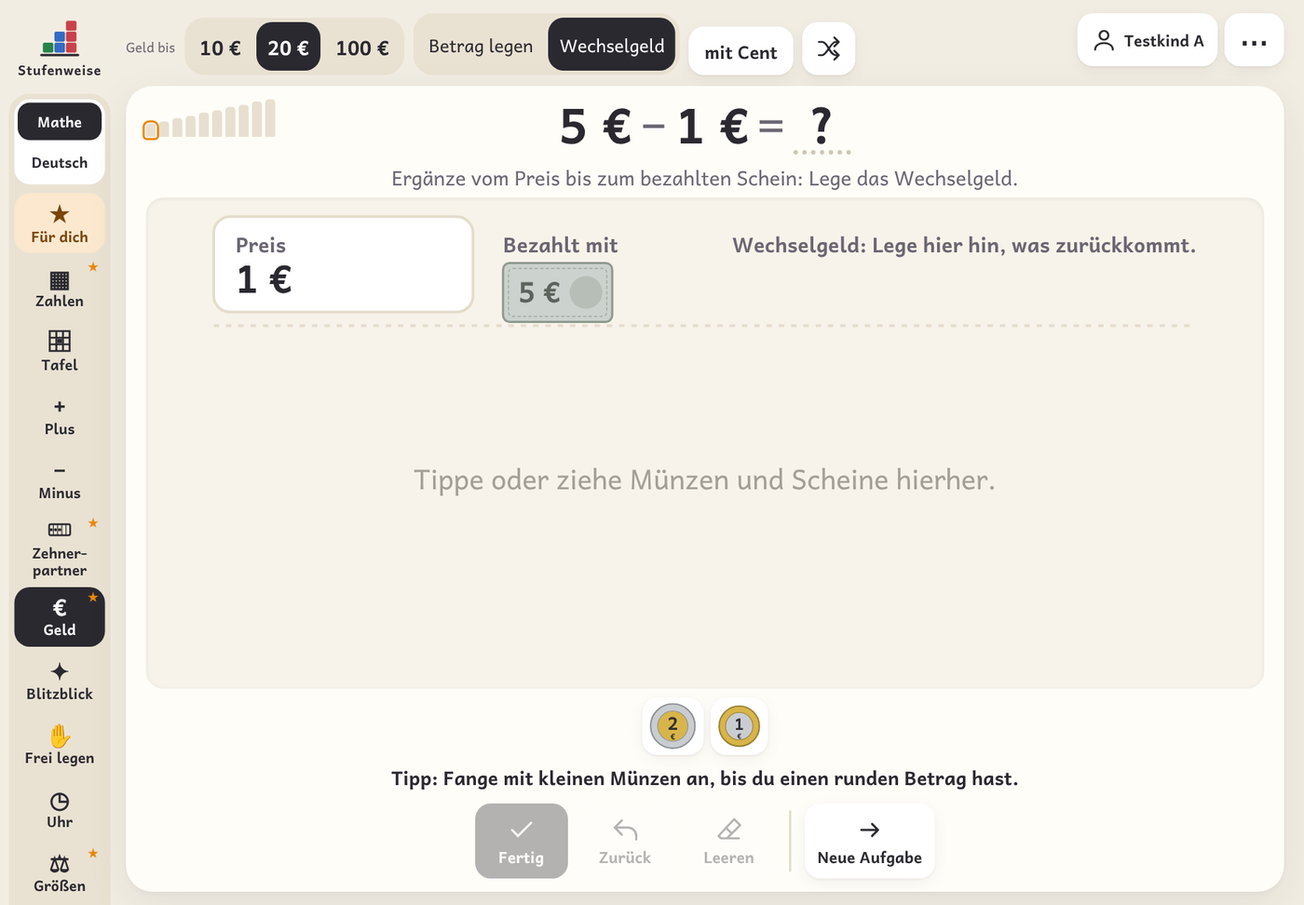
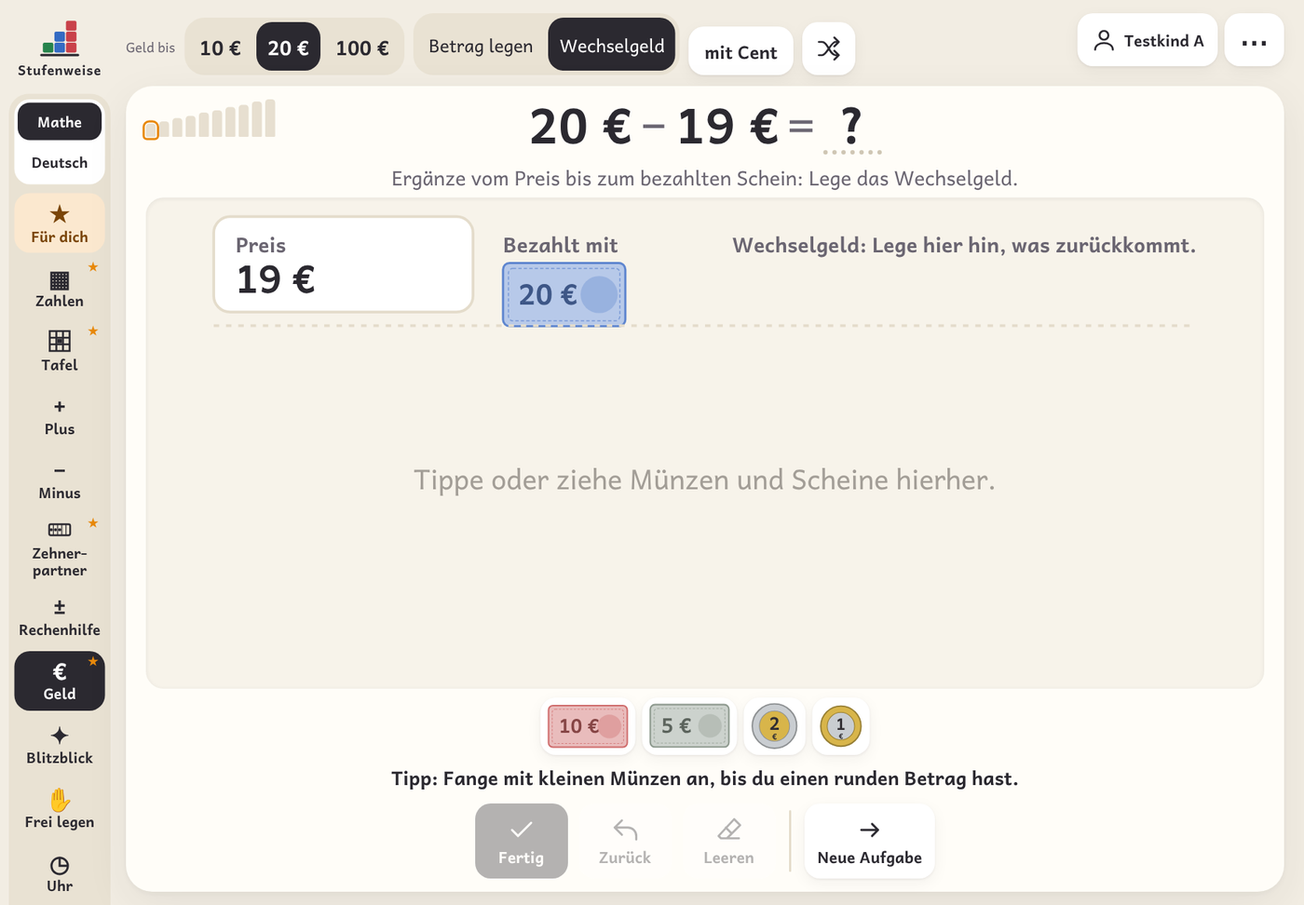
Testversion aus entwicklung (8ca3ece = 0.29.0)
Claude-Session: https://claude.ai/code/session_01EfzymwKeJDe7hEGcDraK42

diff --git a/index.html b/index.html
@@ -3529,6 +3529,7 @@ function adaptStep(mode, dir){
 }
 function adaptTrack(e){
   const k = adaptKey(e); if(!k) return;
+  if(app.calc && ['add', 'sub'].includes(e.mode)) return; /* Rechenhilfe: eigene Aufgaben, kein Vorschlag „Schwerer/Leichter“ */
   if(['add', 'sub'].includes(e.mode) && !app.calc && e.mode === app.mode && pmTrack(e)) return;
   const A = app.adapt; if(A.key !== k){ Object.assign(A, {key:k, ok:0, miss:0}); }
   if(e.ok){ A.ok++; A.miss = 0; } else { A.miss++; A.ok = 0; }
@@ -7125,7 +7126,7 @@ function wzGo(ds){
   settings.subject = subj; app.railGrp = null; leaveMode(); app.activeZone = null;
   if(ds.wzLvl){
     if(ds.wzLast){ settings.lastMath = ds.wzLast; ({clock:() => app.read.ulvl = ds.wzLvl, size:() => app.read.glvl = ds.wzLvl, board:() => app.read.hlvl = ds.wzLvl, tenpair:() => app.read.zlvl = ds.wzLvl})[ds.wzLast]?.(); }
-    Object.assign(app.read, {lvl: ds.wzLvl, item:null, streak:0, miss:0}); app.mode = 'read';
+    Object.assign(app.read, {lvl: ds.wzLvl, item:null, streak:0, miss:0}); pmSetCalc(false); app.mode = 'read';
   } else { pmSetCalc(!!ds.wzCalc); app.mode = ds.wzMode; settings.lastMath = app.mode; autoConf(app.mode); }
   saveSettings(); app.wz = null; render();
 }
@@ -9590,7 +9591,7 @@ document.addEventListener('change', e => { const c = e.target.closest('[data-sub
 document.addEventListener('change', e => { const s = e.target.closest('[data-guide-pid]'); if(!s) return; const p = data.profiles.find(x => x.id === s.dataset.guidePid); if(p){ p.guide = s.value || undefined; saveData(); render(); } });
 
 /* ---------- Rückmeldung (Testphase): Art, Schwere, Text + automatischer Kontext → E-Mail ---------- */
-const APP_VERSION = '0.29.0 · Testversion 0a22d91 · 19.11.2026';
+const APP_VERSION = '0.30.0 · Testversion 8ca3ece · 20.11.2026';
 /* Danke-Seite: Namen nur mit Einverständnis eintragen, z. B. 'Vorname Nachname (Schule)' */
 const THANKS = [];
 const FB_REPO = 'https://github.com/Steffinuss/stufenweise';
@@ -9730,7 +9731,6 @@ $('#dlg-profile').addEventListener('click', e => {
   if(del){ const id = del.dataset.del, p = data.profiles.find(x => x.id === id); if(p && del.dataset.sure){ data.profiles = data.profiles.filter(x => x.id !== id); delete data.log[id]; if(data.skips) delete data.skips[id]; if(data.errs) delete data.errs[id]; if(data.current === id) data.current = null; saveData(); renderProfiles(); render(); } else { del.dataset.sure = '1'; del.innerHTML = '<span style="display:inline;font-weight:700;color:var(--bad)">Sicher?</span>'; } return; }
   if(e.target.closest('#p-screen')){ $('#dlg-profile').close(); screenStart(); }
   if(e.target.closest('#p-unlock')){ requireTeacher(() => renderProfiles()); return; }
-  const tb = e.target.closest('[data-ptest]'); if(tb){ requireTeacher(() => { $('#dlg-profile').close(); diagStart(tb.dataset.ptest, false); }); return; }
 });
 $('#dlg-profile').addEventListener('submit', e => {
   e.preventDefault(); if(!teacherOn()) return; const n = $('#pname').value.trim(); if(!n) return;
@@ -9781,14 +9781,14 @@ $('#help-content').innerHTML = [
   ['chart','Die Stufen','Mathe: Zahlenräume 10, 20, 100, 1000 mit den Niveaus I–V (Fritz & Ricken, Krajewski), Stellenwert S1–S4 (Herzog, Ehlert & Fritz) Rechnen R1–R7 (Plus und Minus bis 10, 20, 100, 1000, Einmaleins), Zehnerpartner Z1–Z3 (Zahlen, die zusammen 10 ergeben, und Rechnen über die 10), Zeit U1–U6 (Uhr und Kalender) und Hundertertafel H1–H7 (bis zum Tausenderbuch). Der Mathe-Test hat zwei Teile: Teil 1 Zahlen und Rechnen, Teil 2 Uhr, Größen und Hundertertafel – so bleibt jede Sitzung kurz. Deutsch: Lesen L1–L9 und Schreiben W1–W6 nach dem Bildungsplan GENT. Dazu Größen G1–G4 (Messen, cm/m/km, g/kg, Einkaufen). Jede Stufe hat einen „Ich kann“-Satz in einfacher Sprache.'],
   ['h','Für Schüler*innen'],
   ['home','Startseite','Das Stufen-Zeichen links oben führt zur Startseite. Dort tippst du deinen Namen an. Unter „Heute für dich“ stehen deine Übungen. Die „Startrunde“ sind 3 kurze Aufgaben zum Aufwärmen. „Meine Lernlandkarte“ zeigt, was du schon kannst (✓) und woran du gerade arbeitest (★).'],
-  ['edit','Mathe','Links wählst du: Zahlen legen, Hundertertafel, Plus, Minus, Zehnerpartner, Schriftlich, Einmaleins, Geld, Blitzblick, Frei legen, Uhr und Größen. Nach deinem Test stellt sich jede Übung selbst passend ein (Zahlenraum, Zehnerübergang). Beim Blitzblick wird die Zeit kürzer, wenn es gut klappt, und länger, wenn es schwer ist. Material kannst du antippen oder ziehen. Bei einem Fehler bekommst du einen Tipp, zum Beispiel: „Zehner und Einer sind vertauscht.“'],
+  ['edit','Mathe','Links wählst du: Zahlen legen, Hundertertafel, Plus, Minus, Zehnerpartner, Rechenhilfe, Schriftlich, Einmaleins, Geld, Blitzblick, Frei legen, Uhr und Größen. Nach deinem Test stellt sich jede Übung selbst passend ein (Zahlenraum, Zehnerübergang). Bei Plus und Minus gibt es Zufallsaufgaben; die Darstellung kommt von selbst nacheinander (Material → Zwanzigerfeld oder Hundertertafel → Zahlenstrahl, nach 8 richtigen Aufgaben die nächste). In der Rechenhilfe gibt das Kind eine eigene Aufgabe ein und wählt die Darstellung frei. Beim Blitzblick wird die Zeit kürzer, wenn es gut klappt, und länger, wenn es schwer ist. Material kannst du antippen oder ziehen. Bei einem Fehler bekommst du einen Tipp, zum Beispiel: „Zehner und Einer sind vertauscht.“'],
   ['target','Zahlenstrahl vergrößern','Tippe auf einen Sprung (zum Beispiel +7), dann wird er groß. Noch einmal tippen: zurück. Mit + und − vergrößerst und verkleinerst du. Mit zwei Fingern kannst du auch zoomen und mit einem Finger verschieben. Unten zeigt der kleine Zahlenstrahl, wo du gerade bist – tippe dort, um hinzuspringen.'],
   ['line','Deutsch','Lesen in 9 Stufen (Bilder, Signalwörter, Buchstaben, Wörter, genau lesen, Sätze, kurze Texte, Pläne und Tabellen, lange Texte) und Schreiben in 6 Stufen (abschreiben, Anlaute, kurze und lange Wörter, Merkstellen, Sätze). Unter „Meine Wörter“ übst du Wörter, die deine Lehrkraft eingetragen hat: anschauen, merken, abdecken, auswendig schreiben, vergleichen. „Silben färben“ hilft bei langen Wörtern. Beim Schreiben gibt es Buchstaben auf dem Bildschirm.'],
-  ['blocks','Basis','Grundlagen vor dem Zählen und Lesen: Gleiches finden, Was passt nicht?, Sortieren, Eins zu eins zuordnen, Mengen vergleichen, Der Größe nach, Muster, Auf einen Blick, Formen, Richtung und Spiegelung, Von links nach rechts. Oben hellblau steht die Vorgabe oder das Ziel, unten beige der Vorrat: Die Kinder schieben Dinge an ihren Platz (oder tippen das Ding und dann den Platz an). Jede Aufgabenart wird zuerst vorgemacht (orange Rahmen, „Schau zu“, eine Hand zeigt es); das Kind bleibt bei ihr, bis es sie sicher kann (erst wenige, dann mehr Bilder). Die Lehrkraft erklärt den Auftrag. Kinder sehen „Basis“ nur, wenn es in den Einstellungen unter „Kinder &amp; Daten“ für sie eingeschaltet ist. Dazu gibt es Arbeitsblätter und Legeblätter.'],
+  ['blocks','Basis','Grundlagen vor dem Zählen und Lesen: Gleiches finden, Was passt nicht?, Sortieren, Eins zu eins zuordnen, Mengen vergleichen, Der Größe nach, Muster, Auf einen Blick, Formen, Richtung und Spiegelung, Von links nach rechts. Oben hellblau steht die Vorgabe oder das Ziel, unten beige der Vorrat: Die Kinder schieben Dinge an ihren Platz (oder tippen das Ding und dann den Platz an). Jede Aufgabenart wird zuerst vorgemacht (orange Rahmen, „Schau zu“, eine Hand zeigt es); das Kind bleibt bei ihr, bis es sie sicher kann (erst wenige, dann mehr Bilder). Die Lehrkraft erklärt den Auftrag. Kinder sehen „Basis“ nur, wenn es für sie eingeschaltet ist (unter „Wer übt?“ oder in den Einstellungen unter „Kinder &amp; Daten“) oder der Basis-Test eine Förderzone ergeben hat. Manche Aufgabenarten werden zusätzlich feiner: erst deutlich verschiedene Dinge, dann ähnliche, dann sehr ähnliche. Dazu gibt es Arbeitsblätter und Legeblätter.'],
   ['next','Schwerer oder leichter','Wenn du 5 Aufgaben hintereinander richtig hast, schlägt Stufenweise die nächste Stufe vor. Nach 3 Fehlern gibt es eine leichtere Stufe. Du entscheidest selbst.'],
   ['h','Für die Lehrkraft'],
   ['lock','Lehrkraft-PIN','In den Einstellungen eine 4-stellige PIN festlegen. Dann sind Lernstand, Tests, Arbeitsblätter, Berichte, Einstellungen und das Anlegen von Kindern geschützt. Nach der Eingabe bleibt der Bereich 20 Minuten offen.'],
-  ['target','Tests','„Wer übt?“ → Mathe-, Lese- oder Schreib-Test. Die Tests sind adaptiv: gelöst → schwerer, nicht gelöst → leichter; in Mathe auch mit Sprüngen zwischen den Zahlenräumen. Meist 6–25 Aufgaben. Die Kinder sehen eine ermutigende Einleitung, während des Tests oben die Abschnitte und einen Balken, der nur vorwärts läuft (ohne richtig/falsch), und am Ende keine Ergebnisse. Während des Tests sind Leiste und Menü gesperrt; Beenden mit zweimal „Abbrechen“. Die Arbeitsaufträge sind kurz; Kinder, die sie noch nicht lesen können, brauchen beim ersten Mal eine kurze Erklärung.'],
+  ['target','Tests','Startseite → „Testen“ → Kind → Test (mit Lehrkraft-PIN). Dort steht je Fach, welche Teile schon gemacht sind; der Basis-Test erscheint, wenn Basis beim Kind eingeschaltet ist oder Mathe „Zahlen bis 10, Stufe I“ bzw. Lesen L1 noch nicht erreicht ist. Mathe-, Lese- und Schreib-Test sind adaptiv: gelöst → schwerer, nicht gelöst → leichter; in Mathe auch mit Sprüngen zwischen den Zahlenräumen. Meist 6–25 Aufgaben. Der Basis-Test hat drei kurze Teile; jede Aufgabenart wird zuerst vorgemacht, dann löst das Kind zwei bis drei Aufgaben, bei Erfolg noch die schwerere Form. Die Kinder sehen eine ermutigende Einleitung, während des Tests oben die Abschnitte und einen Balken, der nur vorwärts läuft (ohne richtig/falsch), und am Ende keine Ergebnisse. Während des Tests sind Leiste und Menü gesperrt; Beenden mit zweimal „Abbrechen“. Die Arbeitsaufträge sind kurz; Kinder, die sie noch nicht lesen können, brauchen beim ersten Mal eine kurze Erklärung.'],
   ['chart','Lernstand','Kompetenzmatrix je Fach (antippen ändert eine Einstufung), Förderzone mit Begründung und Beobachtungen, Lernangebot direkt starten, der Weg am Material (Handeln, Bild, Zahl) mit Legeblatt, Ideen für den Alltag, ILEB-Formulierungen, Verlauf, typische Fehler beim Üben. „Ganze Klasse“ zeigt alle Förderzonen und die letzte Startrunde, schlägt Fördergruppen vor und speichert alles als Tabelle für Excel oder Numbers.'],
   ['print','Arbeitsblätter und Berichte','Das Drucker-Symbol oben öffnet den Arbeitsblatt-Generator (Mathe mit Material, Uhr, Lesen, Schreiben – passend zur Förderzone oder frei, mit Lösungsblatt). Wählbar sind unter anderem „Große Aufgaben“ und bei Mathe „Materialbilder: 1. Aufgabe vorgegeben, dann selbst zeichnen“; die Einstellungen bleiben auf diesem Gerät gespeichert. Mit „Ins Arbeitsheft“ sammelst du mehrere Blätter zu einem Heft: Titelblatt mit Namen und Inhaltsverzeichnis, Seitenzahlen, ohne Namenszeilen und ohne Lösungen. Unter „Basis“ stehen Blätter für Kinder, die noch nicht sicher zählen: Gleiches finden, Sortieren, eins zu eins zuordnen, mehr und weniger, Größen, Muster, Formen, Richtungen; die erste Aufgabe jeder Art ist vorgemacht, auf Wunsch mit Mustern statt Farben für den Schwarz-Weiß-Drucker. Gewählt wird in drei Schritten: Fach, Bereich, Blatt; „Zuletzt benutzt“ hilft beim Wiederfinden. Beim Bereich „Legeblätter“ jedes Fachs gibt es Blätter in Originalgröße zum Drauflegen: Zehner- und Zwanzigerfeld, Zahlenstrahl, Hunderterfeld, Stellentafel, Zifferblatt, Preise, Sortierunterlage, Zuordnungsleiste, Musterstreifen, Anlaute, Wörter, Silben und Buchstabenkarten. Im Lernstand druckt „Bericht drucken“ einen Lernstandsbericht für die ILEB, eine Elterninfo in einfacher Sprache oder die Lernlandkarte zum Ankreuzen im Schülergespräch.'],
   ['target','Geführte Oberfläche','Nach dem Test sieht jedes Kind nur seine Bereiche und Stufen (★ = Förderzone). In den Einstellungen wählst du für alle oder für einzelne Kinder: nur die Förderzone, Förderzone und Geschafftes oder alles. Übt ein Kind 10 Aufgaben mit mindestens 9 richtig, bietet die App einen Kurztest an; klappt er, öffnet sich die nächste Stufe. „Alles zeigen“ unten in der Leiste blendet mit PIN alle Bereiche ein.'],

diff --git a/tests/anleitung_bilder.py b/tests/anleitung_bilder.py
@@ -33,8 +33,14 @@ async def main():
         await pg.fill('#pname', 'Testkind A')
         await shot('03_kind', hl='#padd')
         await pg.click('#padd button[type=submit]'); await pg.wait_for_timeout(300)
-        await shot('04_tests', hl='[data-ptest="M1"]')
-        await pg.click('[data-ptest="M1"]'); await pg.wait_for_timeout(300)
+        await pg.click('#dlg-profile [data-close]'); await pg.wait_for_timeout(200)
+        # Testen: Startseite → Testen → Kind → Test (seit 0.29.0 ein eigener Eingang)
+        await pg.click('#btn-home'); await pg.wait_for_timeout(300)
+        if await pg.locator('[data-ctx-reset]').count(): await pg.click('[data-ctx-reset]'); await pg.wait_for_timeout(300)
+        await pg.click('[data-ctx-test]'); await pg.wait_for_timeout(300)
+        await pg.click('[data-home-pick]'); await pg.wait_for_timeout(300)
+        await shot('04_tests', hl='[data-tstart="M1"]')
+        await pg.click('[data-tstart="M1"]'); await pg.wait_for_timeout(300)
         await shot('05_intro', hl='#d-start')
         await pg.click('#d-start')
         skill = math_skill({10:5,20:3,100:0,1000:0},0,2,2)
@@ -49,11 +55,15 @@ async def main():
         await pg.click('#d-close'); await pg.wait_for_timeout(300)
         # Teil 2
         await pg.evaluate("diagStart('M2', false)"); await pg.wait_for_timeout(200); await pg.click('#d-start')
-        for step in range(80):
+        for step in range(200):
             if await pg.evaluate("app.diag.done"): break
-            info = await pg.evaluate("(()=>{const d=app.diag;return {key:d.key}})()")
-            await answer(pg, skill(info['key'])); await pg.wait_for_timeout(60)
+            info = await pg.evaluate("(()=>{const d=app.diag;return {key:d.key,type:d.items[d.idx].type}})()")
+            if info['type'] in ('input','flash','scatter','seq','clockset','write','sent','choice','pairs','line','money','build'): await answer(pg, skill(info['key']))
+            else: await pg.click('#d-skip')  # Aufgabenarten, die simlib nicht kennt (z. B. Hundertertafel): „Weiß ich nicht“
+            await pg.wait_for_timeout(60)
+        print('Teil 2 fertig:', await pg.evaluate("app.diag?.done"))
         await pg.click('#d-close'); await pg.wait_for_timeout(300)
+        print('Modus:', await pg.evaluate("app.mode"))
         # Lernstand
         await pg.click('#btn-more'); await pg.click('#btn-stats'); await pg.wait_for_timeout(500)
         await shot('08_lernstand')

diff --git a/CHANGELOG.md b/CHANGELOG.md
@@ -5,14 +5,29 @@ Versionen: Hauptversion.Nebenversion.Korrektur (Korrektur = Fehlerbehebung, Nebe
 
 ## Unveröffentlicht (Zweig `entwicklung`, Testversion)
 
-- **Basis-Test** in drei kurzen Teilen (V1–V4, V5–V8, O2–O4) mit Vormachen vor jeder neuen Aufgabenart, Blöcken für leichte und schwerere Form, Kompetenzmatrix mit zwei Bereichszeilen, Förderzone, ILEB-Vorschlägen, Elterninfo, Lernlandkarte und Hinweis im Lernstand bei Mathe „Zahlen bis 10, Stufe I“ / Lesen L1 (17.11.2026, Commit 329ab57). Wartet auf Freigabe, siehe `IN_PROGRESS.md`.
-- Testversion mit eigenem Speicher und rotem Hinweis; Skript `tests/testversion.sh`; Arbeitsweise mit zwei Zweigen in `docs/entwicklung.md` (17.11.2026).
-- **Basis-Arbeitsblätter:** Das Beispiel vor jeder Aufgabenart zeigt nur noch den ersten Schritt (eine Zeile, eine Linie, ein Kreis) statt der ganzen Aufgabe; Kuchengabel symmetrisch mit 3 Zinken (19.11.2026, Stefan).
-- **Plus und Minus aufgeteilt** (Backlog A): „Plus“/„Minus“ = Üben mit Zufallsaufgaben, Darstellung kommt von selbst nacheinander (bis 20 Material → Zwanzigerfeld → Zahlenstrahl, bis 100 Material → Hundertertafel → Zahlenstrahl, bis 1000 Material → Zahlenstrahl; nach 8 richtigen weiter, nach 3 Fehlern zurück); neue „Rechenhilfe“ für eigene Aufgaben mit freier Darstellung (19.11.2026).
-- **Basis: Schwerer durch Ähnlichkeit** (Backlog C): V1–V3 steigen in zwei Richtungen – mehr Bilder und deutlich → ähnlich → fein, mit denselben Dingen; 12 neue Bilder (Werkzeug-, Besteck- und Tassen-Varianten, Messer, Nagel, Schraubenschlüssel); Arbeitsblätter V1–V3 mit Auswahl „Ähnlichkeit“ (19.11.2026).
-- **Unterricht, Zwanzigerfeld: Zahl vorgeben** (Backlog B): Zahl eingeben oder „Zufallszahl“ legt die Menge ohne Rechnung; „Zahl verdecken“ wirkt auch auf die Anzahl allein, „?“ deckt auf, noch einmal antippen deckt zu (19.11.2026).
-- **Eingang „Testen“** auf der Startseite (Testen → Wer? → Welcher Test?), Basis-Häkchen pro Kind in „Wer übt?“, Zuordnen „Jedem eins“ frei hinlegen, Testversion mit eigener Kennung (19.11.2026, Rückmeldungen Stefan).
-- Dokumentation `BACKLOG.md`, `IN_PROGRESS.md`, `CHANGELOG.md` (19.11.2026).
+- noch nichts
+
+## 0.29.0 – 20.11.2026
+
+Neu:
+- **Basis-Test** in drei kurzen Teilen (V1–V4, V5–V8, O2–O4): Vormachen vor jeder neuen Aufgabenart, je Stufe leichte und schwerere Form, Kompetenzmatrix mit zwei Bereichszeilen, Förderzone, ILEB-Vorschläge, Elterninfo, Lernlandkarte; Hinweis im Lernstand, wenn Mathe „Zahlen bis 10, Stufe I“ oder Lesen L1 nicht erreicht ist.
+- **Eingang „Testen“** auf der Startseite (Testen → Wer? → Welcher Test?), nach Fach geordnet mit Stand und Wiederholung. Die Test-Knöpfe im Fenster „Wer übt?“ sind weg; dort gibt es das Häkchen Basis pro Kind.
+- **Plus und Minus aufgeteilt** (Backlog A): Üben mit Zufallsaufgaben, die Darstellung kommt von selbst nacheinander (bis 20 Material → Zwanzigerfeld → Zahlenstrahl, bis 100 Material → Hundertertafel → Zahlenstrahl, bis 1000 Material → Zahlenstrahl; nach 8 richtigen weiter, nach 3 Fehlern zurück); neue **Rechenhilfe** für eigene Aufgaben mit freier Darstellung, für alle Kinder.
+- **Basis: schwerer durch Ähnlichkeit** (Backlog C): V1–V3 steigen in zwei Richtungen, mehr Bilder und deutlich → ähnlich → fein; 12 neue Bilder; Arbeitsblätter V1–V3 mit Auswahl „Ähnlichkeit“.
+- **Unterricht, Zwanzigerfeld: Zahl vorgeben** (Backlog B): Zahl eingeben oder „Zufallszahl“; „Zahl verdecken“ wirkt auch auf die Anzahl allein.
+
+Geändert:
+- Basis „Jedem eins“: frei hinlegen mit mehr im Vorrat, damit man auch etwas falsch machen kann.
+- Basis-Arbeitsblätter: Das Beispiel zeigt nur den ersten Schritt; Kuchengabel mit 3 Zinken.
+- Texte V3 und V6 passen zu dem, was der Test prüft.
+- Anleitung und Hilfe in der App beschreiben Testen, Basis-Test, Rechenhilfe und Ähnlichkeit; Bildschirmfotos erneuert.
+
+Durchsicht vor der Freigabe (20.11.2026):
+- Rechenhilfe schlägt kein „Schwerer/Leichter“ mehr vor (sonst wurde aus der eigenen Aufgabe eine Zufallsaufgabe).
+- Rechenhilfe endet sauber, wenn man über die Startseite in eine andere Übung geht.
+- Toter Knopf-Code der alten Test-Knöpfe entfernt; `tests/anleitung_bilder.py` läuft wieder (über „Testen“).
+
+Für Entwickler*innen: Testversion mit eigenem Speicher (`TEST_BUILD`, Vorsatz `test:`) und Skript `tests/testversion.sh`; Arbeitsweise mit zwei Zweigen in `docs/entwicklung.md`; `BACKLOG.md`, `IN_PROGRESS.md`, `CHANGELOG.md`; neue Test-Haken in `docs/neues-fach.md`.
 
 ## 0.28.5 – 17.11.2026 (Release v0.28.5, eingefrorener Stand für Schulen)
 

diff --git a/IN_PROGRESS.md b/IN_PROGRESS.md
@@ -3,41 +3,6 @@
 Was gerade begonnen ist. Erledigtes wandert nach `CHANGELOG.md`, Geplantes steht in `BACKLOG.md`.
 Arbeitsweise mit zwei Zweigen: `docs/entwicklung.md`.
 
-Stand: 19.11.2026 abends
+Stand: 20.11.2026
 
-## Basis-Test (Basis, Schritt 4)
-
-| | |
-| --- | --- |
-| Zweig | `entwicklung`, Commit 329ab57 (gepusht) |
-| Testversion | steffinuss.github.io/stufenweise-test (Commit ceba845 im Repository `stufenweise-test`) |
-| Tests | `tests/basis_test.py` neu; `sh tests/run_all.sh lang` am 17.11.2026 komplett grün (38 Tests) |
-| Anleitung | `docs/anleitung.md` (Abschnitt „Basis-Test“), `docs/neues-fach.md` (neue Test-Haken) |
-| Status | **fertig gebaut, wartet auf Ausprobieren durch Stefan** |
-
-Umgesetzt:
-- Drei kurze Teile (Entscheidung Stefan, 17.11.2026): Teil 1 V1–V4, Teil 2 V5–V8, Teil 3 O2–O4.
-- Je Stufe Block a (leicht), nur wenn a klappt Block b (schwerer). Jeder Block: einmal vormachen (nicht gewertet, nichts antippbar), dann 2–3 Aufgaben derselben Art. Ergebnis: a und b → erreicht, nur a → teilweise, a nicht → nicht erreicht.
-- Kompetenzmatrix mit zwei Bereichszeilen (keine Treppe, nichts abgeleitet), Förderzone in der empfohlenen Reihenfolge, ILEB-Sätze, Elterninfo, Lernlandkarte, Kurztest, Re-Diagnose.
-- Hinweis im Lernstand, wenn Mathe „Zahlen bis 10, Stufe I“ oder Lesen L1 nicht erreicht ist; Basis wird bei offener Förderzone automatisch sichtbar.
-- Texte V3 und V6 an das angepasst, was der Test prüft (V3: Farbe bei gleichen bzw. verschiedenen Dingen; V6 b: vier Dinge ordnen).
-
-Rückmeldungen beim Ausprobieren (19.11.2026, eingearbeitet, Testversion cb56bb1):
-- Basis-Test war schwer zu finden → jetzt auch im Fenster „Wer übt?“ (eine Zeile je Fach: Basis, Mathe, Deutsch).
-- Bei „Zuordnen“ konnte man nichts falsch machen → „Jedem eins“ frei hinlegen: mehr im Vorrat, unter ein Bild passen auch mehrere, richtig nur mit genau einem je Bild (Üben und Test).
-- Basis-Häkchen pro Kind direkt im Fenster „Wer übt?“ neben „ohne Lesen“; die Basis-Test-Knöpfe dort erscheinen nur, wenn es beim gewählten Kind angehakt ist.
-- Tests haben einen eigenen Eingang: Startseite → **Testen** (Lehrkraft-PIN) → Kind → Test, nach Fach geordnet mit Stand („noch nicht gemacht“ / „gemacht · zuletzt …“) und Wiederholung. Die Test-Knöpfe in „Wer übt?“ sind wieder entfernt; dort bleibt nur das Häkchen Basis. Lernstand behält seine Knöpfe.
-- Testversion zeigte 0.28.5 → zeigt jetzt „0.29.0 · Testversion <Stand> · <Datum>“.
-
-Ebenfalls fertig in der Testversion (19.11.2026), Freigabe zusammen mit dem Basis-Test als 0.29.0:
-- Backlog A: Plus und Minus aufgeteilt in Üben (Darstellungen nacheinander) und Rechenhilfe.
-- Backlog B: Zwanzigerfeld im Unterricht – Zahl vorgeben und verdecken.
-- Backlog C: Basis V1–V3 schwerer durch Ähnlichkeit, 12 neue Bilder, Arbeitsblätter mit Auswahl „Ähnlichkeit“.
-
-Noch offen, bevor 0.29.0 freigegeben wird:
-1. Stefan probiert alles in der Testversion aus (am besten am Schul-iPad): Basis-Test, Testen-Eingang, Plus/Minus und Rechenhilfe, Zwanzigerfeld, Ähnlichkeit in Basis; dazu die geänderten Texte V3/V6.
-2. Rückmeldung einarbeiten, `sh tests/run_all.sh lang`, Testversion aktualisieren.
-3. Nach Stefans OK: `entwicklung` in `main` zusammenführen, Version 0.29.0, `CHANGELOG.md` ergänzen, Release anlegen (Stefan, GitHub-Oberfläche).
-4. Bildschirmfotos der Anleitung erneuern (das Bild `04_tests.png` ist entfernt, weil es die alten Test-Knöpfe zeigte) (dafür zuerst `tests/anleitung_bilder.py` reparieren, bricht seit 0.24.0 ab).
-
-Achtung: Backlog-Punkt C (Progression in Basis) betrifft dieselben Aufgabenarten, auf denen der Test aufbaut. Siehe `BACKLOG.md`.
+Gerade nichts in Arbeit. Basis-Test und Backlog A, B, C sind mit 0.29.0 freigegeben (siehe `CHANGELOG.md`).

diff --git a/BACKLOG.md b/BACKLOG.md
@@ -11,9 +11,9 @@ Stand: 19.11.2026
 | Nr. | Aufgabe | Größe | Warum an dieser Stelle |
 | --- | --- | --- | --- |
 | 0 | Basis-Test abschließen (`IN_PROGRESS.md`) | klein | fertig gebaut, braucht nur Ausprobieren und Freigabe |
-| 1 | ~~**C** Basis: bessere Progression~~ | mittel | erledigt 19.11.2026 (Testversion), siehe `CHANGELOG.md` |
-| 2 | ~~**B** Unterricht: Zahl im Zwanzigerfeld~~ | klein | erledigt 19.11.2026 (Testversion), siehe `CHANGELOG.md` |
-| 3 | ~~**A** Plus und Minus aufteilen~~ | groß | erledigt 19.11.2026 (Testversion), siehe `CHANGELOG.md` | 
+| 1 | ~~**C** Basis: bessere Progression~~ | mittel | freigegeben in 0.29.0 (20.11.2026), siehe `CHANGELOG.md` |
+| 2 | ~~**B** Unterricht: Zahl im Zwanzigerfeld~~ | klein | freigegeben in 0.29.0 (20.11.2026), siehe `CHANGELOG.md` |
+| 3 | ~~**A** Plus und Minus aufteilen~~ | groß | freigegeben in 0.29.0 (20.11.2026), siehe `CHANGELOG.md` | 
 
 Alternative: B zuerst als schneller Gewinn, während Stefan den Basis-Test ausprobiert.
 
@@ -21,7 +21,7 @@ Alternative: B zuerst als schneller Gewinn, während Stefan den Basis-Test auspr
 
 ## A: Modul Plus und Minus aufteilen
 
-**Status:** erledigt 19.11.2026 in `entwicklung` (Testversion), wartet auf Freigabe. Umsetzung: `app.calc` (Rechenhilfe) statt neuem Modus; `pmPractice`, `pmViews`, `pmMem`, `pmTrack` (Leiter je Kind, Rechenart und Zahlenraum); Rail-Eintrag und Startseiten-Kachel „Rechenhilfe“; Test `tests/plusminus_ueben.py`.
+**Status:** erledigt 19.11.2026, freigegeben in 0.29.0 (20.11.2026). Umsetzung: `app.calc` (Rechenhilfe) statt neuem Modus; `pmPractice`, `pmViews`, `pmMem`, `pmTrack` (Leiter je Kind, Rechenart und Zahlenraum); Rail-Eintrag und Startseiten-Kachel „Rechenhilfe“; Test `tests/plusminus_ueben.py`.
 **Entscheidungen Stefan (19.11.):** Darstellung wechselt automatisch wie bei Basis (nach 8 auf Anhieb richtigen die nächste, nach 3 Fehlern in Folge zurück; Lehrkraft kann oben jede wählen). Reihenfolge: bis 20 Material → Zwanzigerfeld → Zahlenstrahl; bis 100 Material → Hundertertafel → Zahlenstrahl; bis 1000 Material → Zahlenstrahl. Die Rechenhilfe sehen alle Kinder (eigener Eintrag bei Mathe).
 
 **Ausgangslage:** Im Schülermodus bietet Plus/Minus zu viele Wahlmöglichkeiten: Zufallsaufgabe, eigene Aufgabe eingeben, Darstellung wählen (Zahlenstrahl, Material, Hundertertafel). Das kann Schüler*innen mit Förderschwerpunkt geistige Entwicklung überfordern.
@@ -46,7 +46,7 @@ Alternative: B zuerst als schneller Gewinn, während Stefan den Basis-Test auspr
 
 ## B: Unterricht – Zahlen im Zwanzigerfeld darstellen
 
-**Status:** erledigt 19.11.2026 in `entwicklung` (Testversion), wartet auf Freigabe
+**Status:** erledigt 19.11.2026, freigegeben in 0.29.0 (20.11.2026)
 
 **Ausgangslage:** Das Zwanzigerfeld (Unterricht, Tafelwerkzeug) wird vor allem mit Rechnungen genutzt.
 
@@ -64,7 +64,7 @@ Alternative: B zuerst als schneller Gewinn, während Stefan den Basis-Test auspr
 
 ## C: Basis – bessere Progression der Schwierigkeitsstufen
 
-**Status:** erledigt 19.11.2026 in `entwicklung` (Testversion), wartet auf Freigabe.
+**Status:** erledigt 19.11.2026, freigegeben in 0.29.0 (20.11.2026).
 **Entscheidungen Stefan (19.11.):** Ähnlichkeit als Schritte innerhalb der Aufgabenart (nicht als eigene Arten); zuerst V1, V2, V3.
 **Umsetzung:** Aufgabenarten mit `{sim:true}` haben st 0…5 = deutlich/ähnlich/fein × wenige/mehr Bilder (`bzSim`), „Nächste Aufgabe“ nach 12. Neue Bilder: Messer, Nagel, Schraubenschlüssel und Varianten (großer Hammer, Klauenhammer, Kreuz- und kurzer Schraubenzieher, Ringschlüssel, Teelöffel, Kochlöffel, Kuchengabel, Becher); Untergruppen `B_SUB`, Familien `B_FAM`; Varianten nur bei „fein“. Arbeitsblätter V1–V3 mit Auswahl „Ähnlichkeit“. Basis-Test unverändert (leichte Form = deutlich).
 

diff --git a/docs/anleitung.md b/docs/anleitung.md
@@ -46,6 +46,8 @@ Das neue Kind ist jetzt ausgewählt (dunkel hinterlegt).
 - **Deutsch:** Lese-Test, Schreib-Test
 - **Wiederholung:** testet nur die offenen Stufen eines Tests noch einmal; „empfohlen“, wenn seit dem letzten Test viel geübt wurde
 
+![Testauswahl für ein Kind: Mathe Teil 1 und 2, Lese- und Schreib-Test](bilder/04_tests.png)
+
 Tipp auf den Test, den das Kind jetzt machen soll. Mach die Teile am besten an verschiedenen Tagen. Nach dem Test kommst du wieder zur Testauswahl; mit „Anderes Kind“ geht es mit dem nächsten Kind weiter. Im Lernstand eines Kindes kannst du Tests ebenfalls starten, direkt beim jeweiligen Fach.
 
 ### Themenwelt, Erkennungsbild und „ohne Lesen“

diff --git a/README.md b/README.md
@@ -1,4 +1,4 @@
-> **Testversion von Stufenweise** – Stand aus [Steffinuss/stufenweise](https://github.com/Steffinuss/stufenweise), Zweig `entwicklung` (0a22d91). Nicht für den Unterricht. Hier nicht direkt arbeiten.
+> **Testversion von Stufenweise** – Stand aus [Steffinuss/stufenweise](https://github.com/Steffinuss/stufenweise), Zweig `entwicklung` (8ca3ece). Nicht für den Unterricht. Hier nicht direkt arbeiten.
 
 # Stufenweise
 
